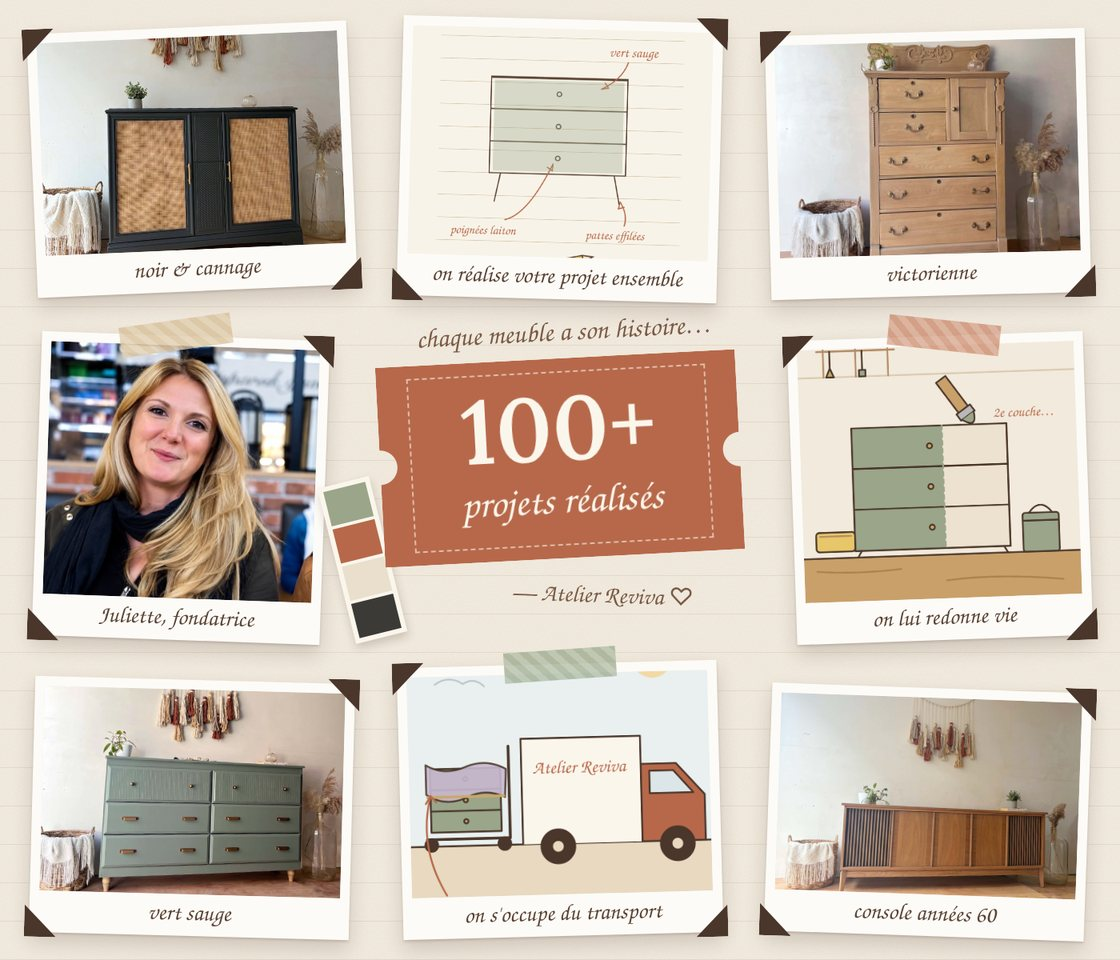
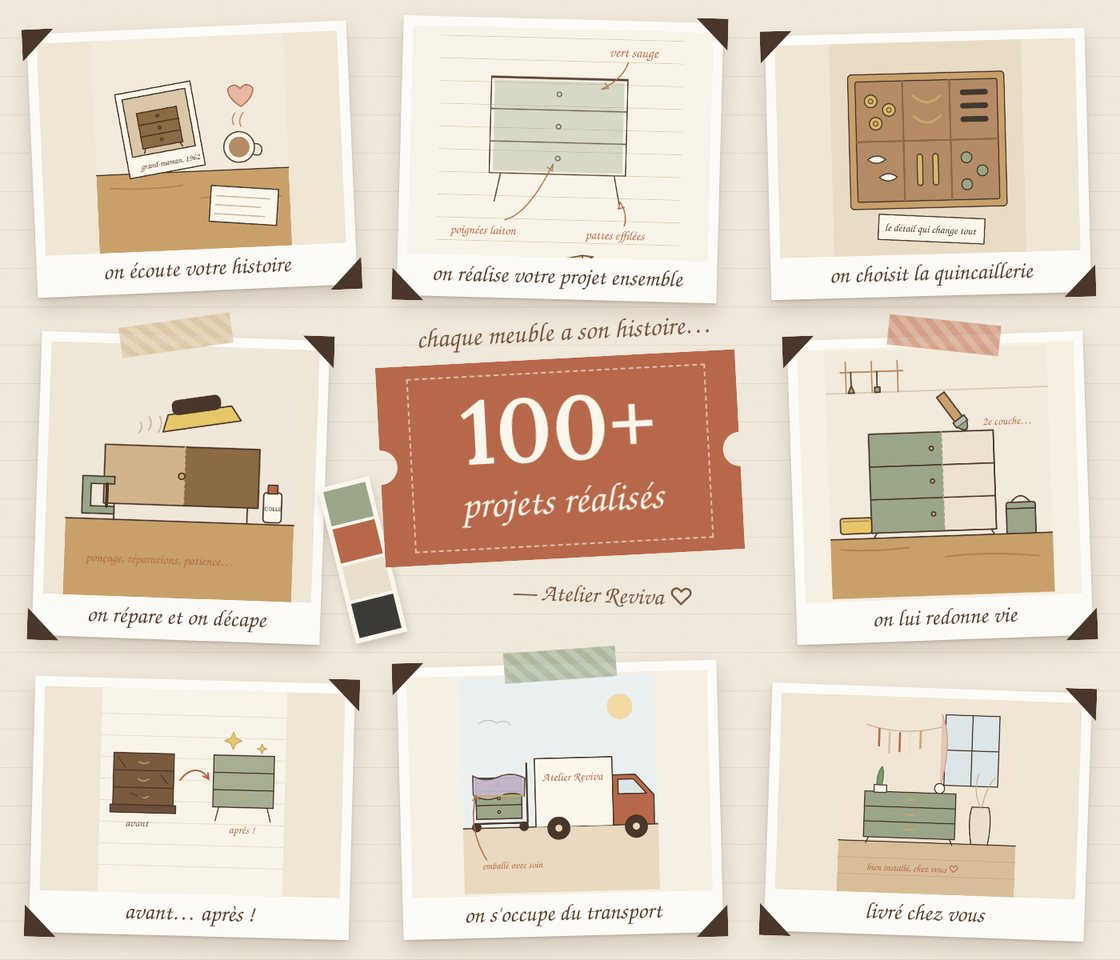
À propos : album 100% illustrations (8 étapes d'un projet, sans photos)
Claude-Session: https://claude.ai/code/session_01JeVkBMrqiAzrbBQ5W3R6Ey

diff --git a/code_sandbox_Atelier Raviva/apropos.html b/code_sandbox_Atelier Raviva/apropos.html
@@ -193,7 +193,7 @@
             <a href="portfolio.html" class="btn btn-outline">Voir nos réalisations</a>
           </div>
           <div style="border-radius:var(--radius-lg); overflow:hidden; box-shadow:var(--shadow-md);">
-            <img src="assets/images/atelier-reviva-album.jpg" alt="Album de l'atelier : plus de 100 projets réalisés, Juliette la fondatrice, des meubles transformés et les étapes d'un projet" width="1120" height="960" loading="lazy" style="width:100%; height:auto; display:block;" />
+            <img src="assets/images/atelier-reviva-album.jpg" alt="Album illustré de l'atelier : plus de 100 projets réalisés et les étapes d'un projet, de l'écoute de votre histoire jusqu'à la livraison chez vous" width="1120" height="960" loading="lazy" style="width:100%; height:auto; display:block;" />
           </div>
         </div>
       </div>
